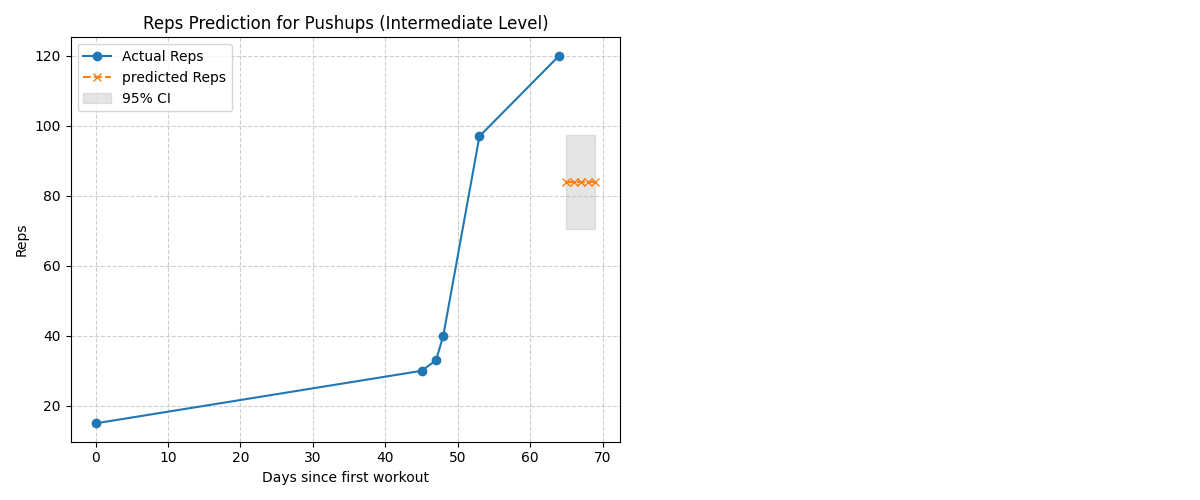
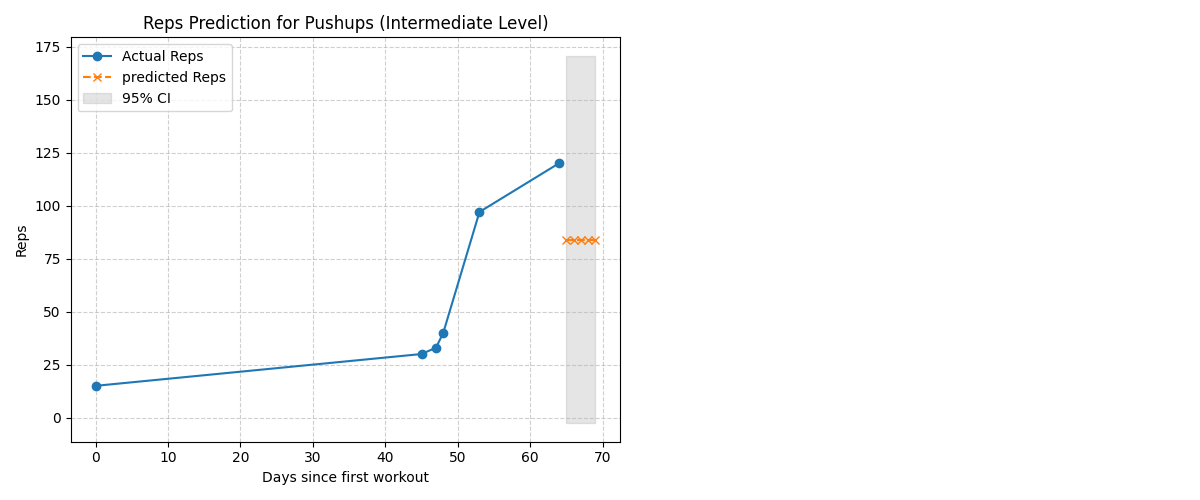
fixed

diff --git a/predictor.py b/predictor.py
@@ -85,7 +85,7 @@ def predict_targets(dates, reps, weights=None, exercise_name="bench press", user
     # get the coeffs for reps 
     days_norm = days / max(days)
     future_days_norm = future_days / max(days)
-    reps_coeffs = polynomial_regression(days, reps, degree=3)
+    reps_coeffs = polynomial_regression(days_norm, reps, degree=3)
     
 
     # Predictions for reps  in the future days
